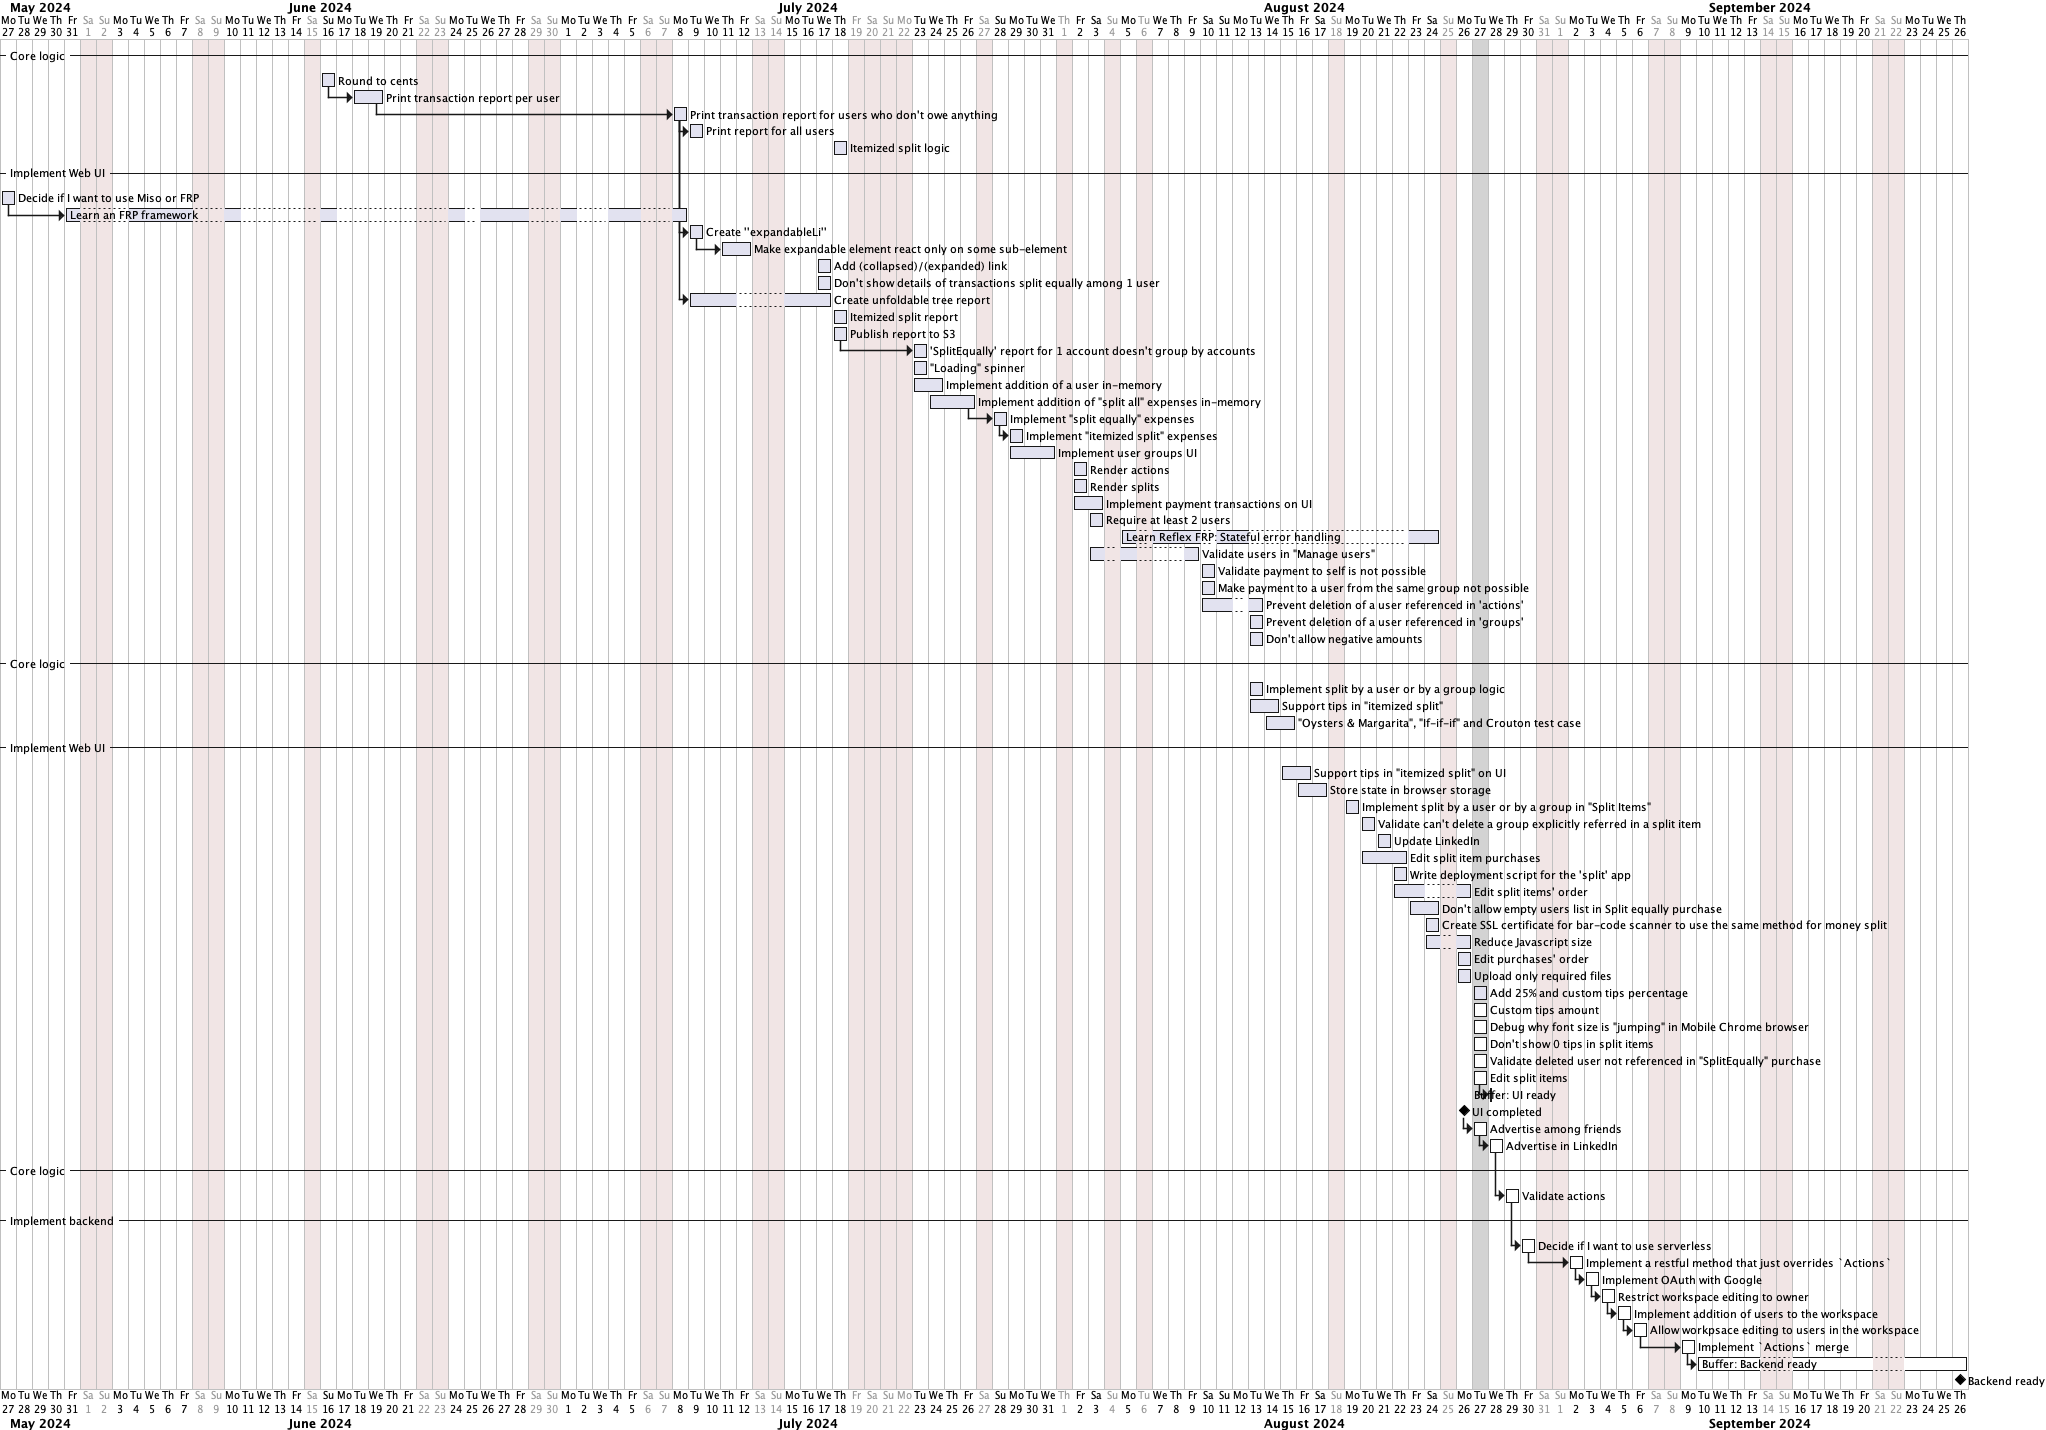
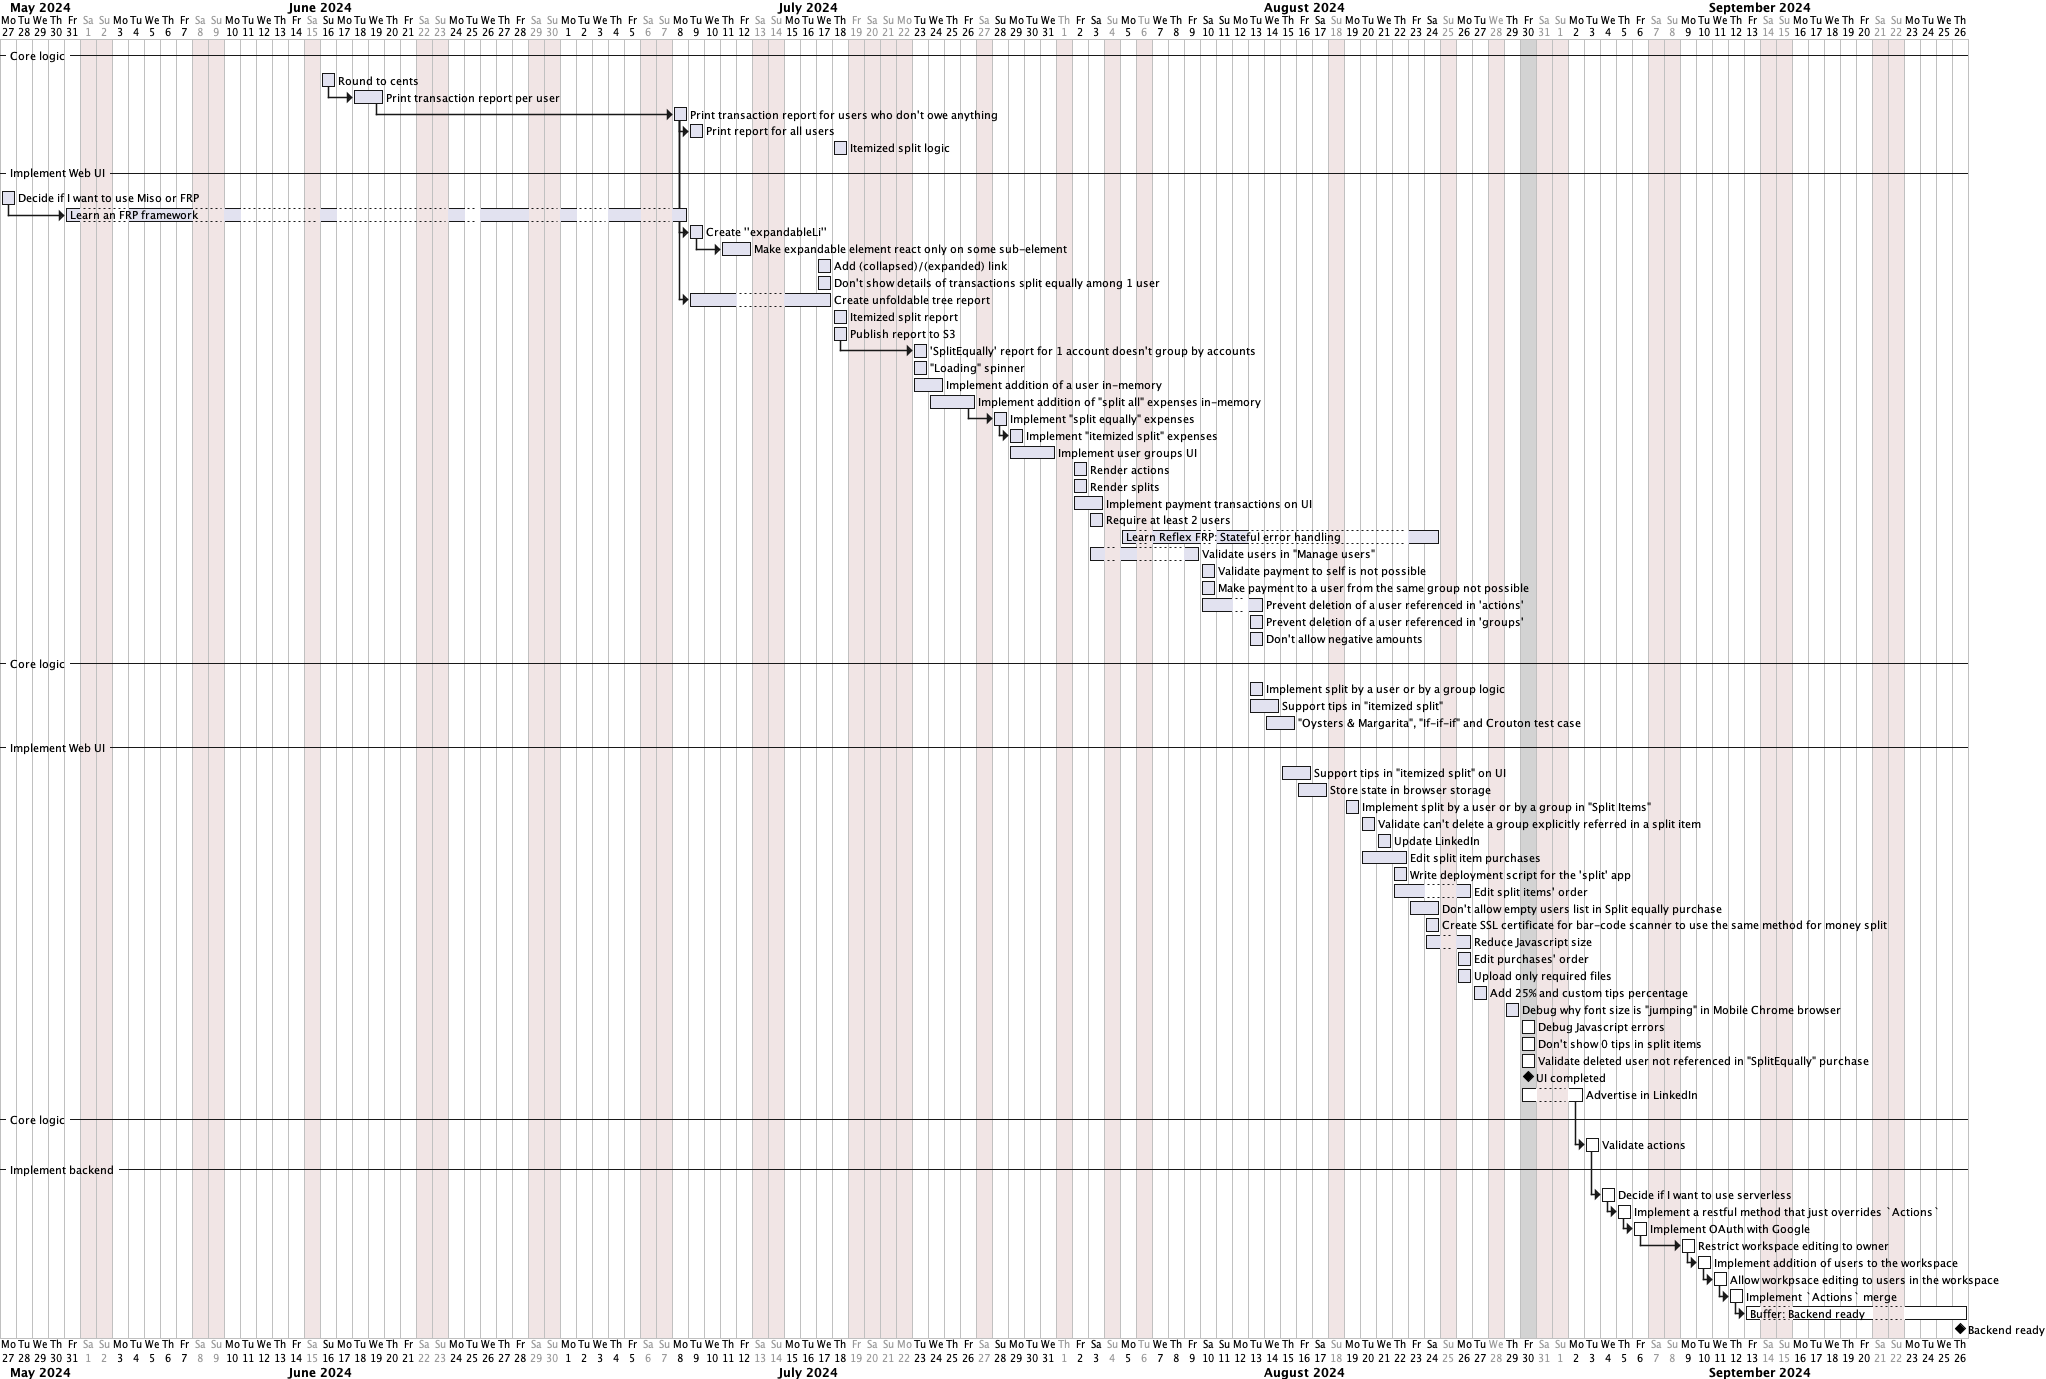
Prevent font boosting in Mobile Chrome

diff --git a/split.css b/split.css
@@ -17,3 +17,9 @@ table tr td:nth-of-type(2).nested {
     border: 1px solid;
     padding: 1em
 }
+
+* {
+    /* Prevent font boosting in Mobile Chrome */
+    /* https://stackoverflow.com/a/12965146/1060693 */
+    max-height: 999999px
+}
